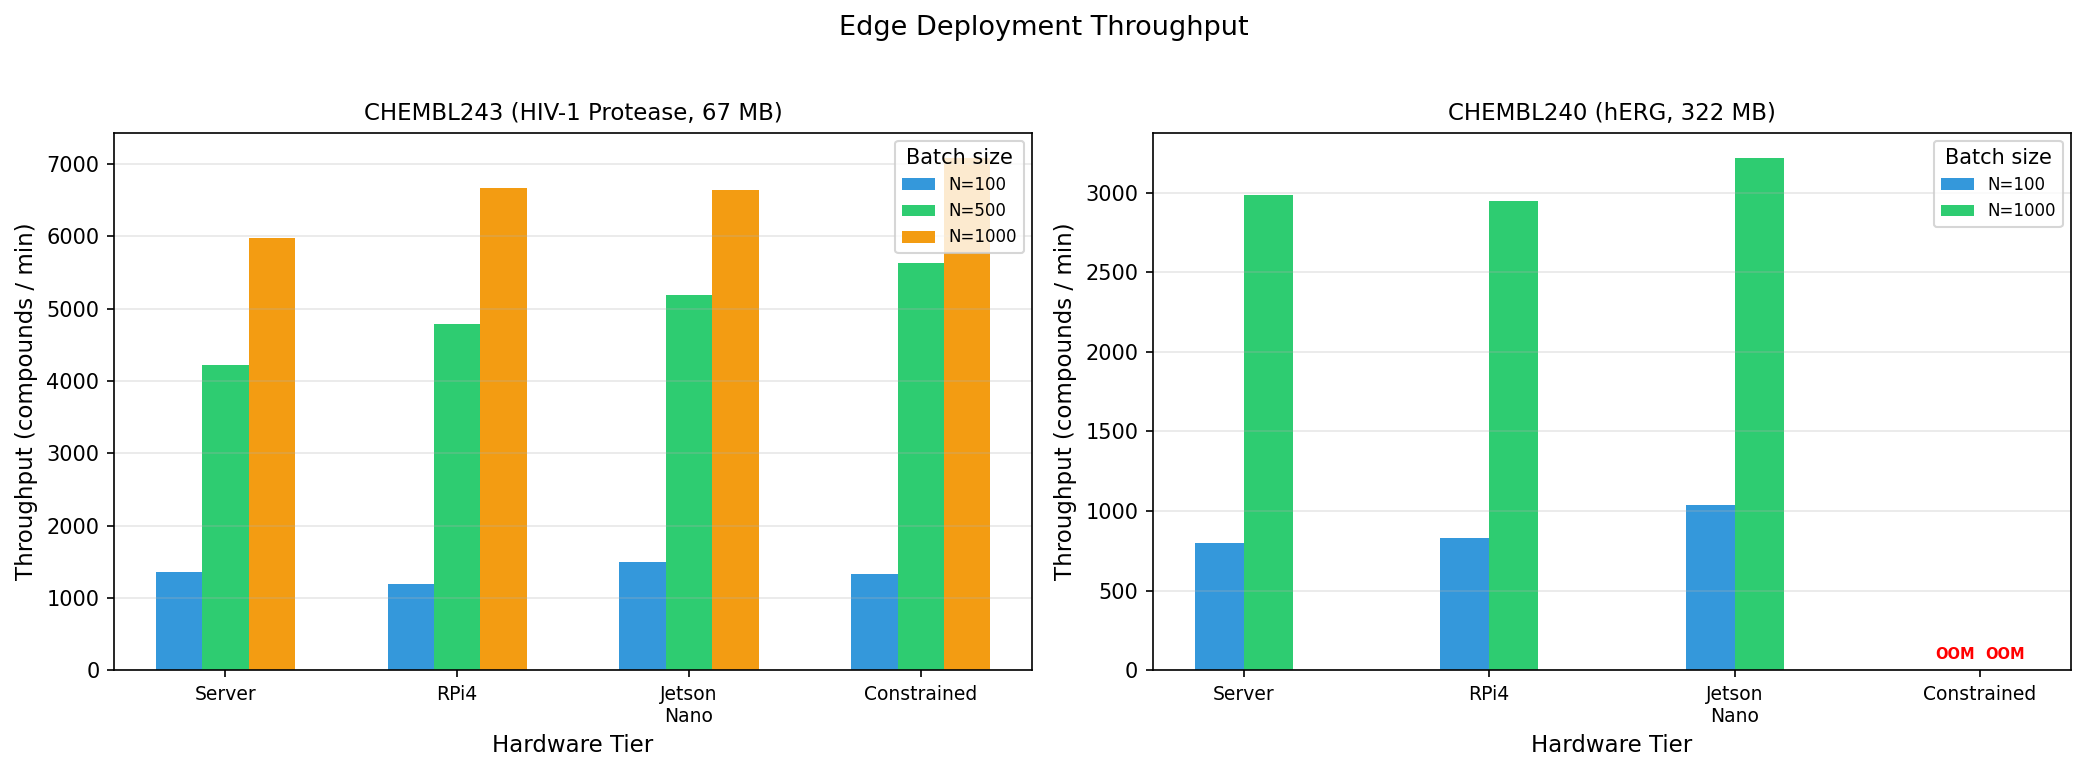
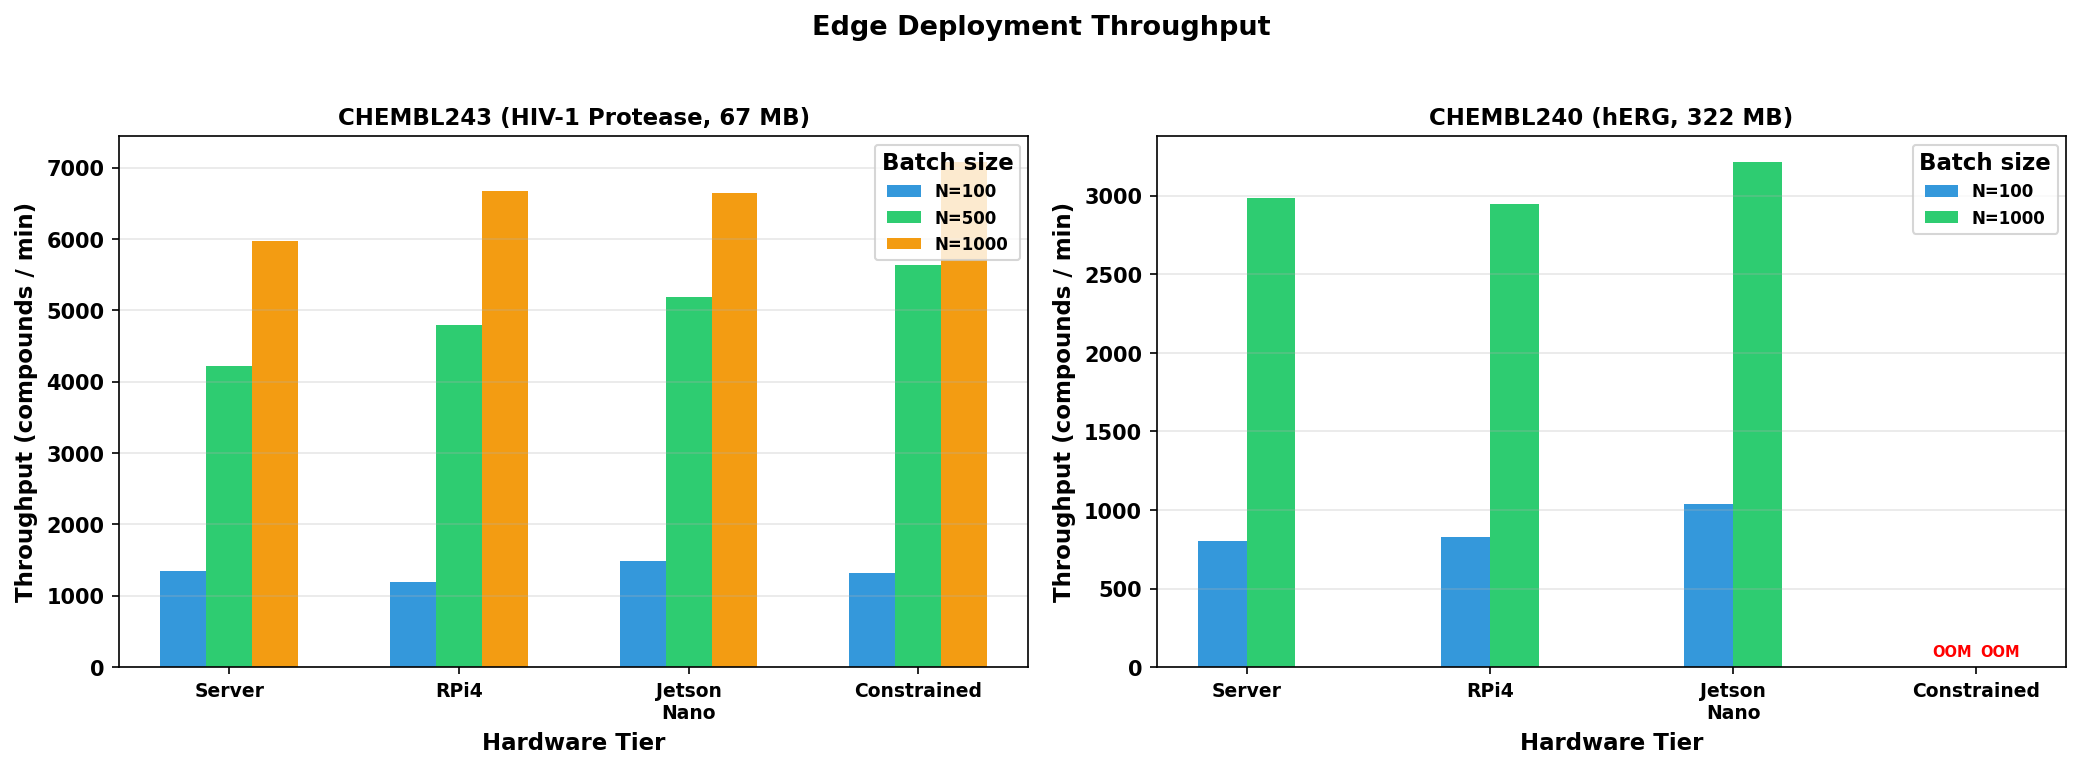
Make all figure text bold for legibility
Set global matplotlib rcParams: font.weight=bold, larger tick/label
sizes across all 7 figures.

diff --git a/experiments/generate_all_figures.py b/experiments/generate_all_figures.py
@@ -15,6 +15,20 @@ matplotlib.use("Agg")
 import matplotlib.pyplot as plt
 import matplotlib.patches as mpatches
 
+# Global: make all text bold and slightly larger for legibility
+plt.rcParams.update({
+    "font.weight": "bold",
+    "axes.labelweight": "bold",
+    "axes.titleweight": "bold",
+    "figure.titleweight": "bold",
+    "font.size": 11,
+    "axes.titlesize": 13,
+    "axes.labelsize": 12,
+    "xtick.labelsize": 10,
+    "ytick.labelsize": 10,
+    "legend.fontsize": 10,
+})
+
 PROJECT_ROOT = os.path.dirname(os.path.dirname(os.path.abspath(__file__)))
 RESULTS = os.path.join(PROJECT_ROOT, "results")
 OUT = os.path.join(RESULTS, "paper_tables")
